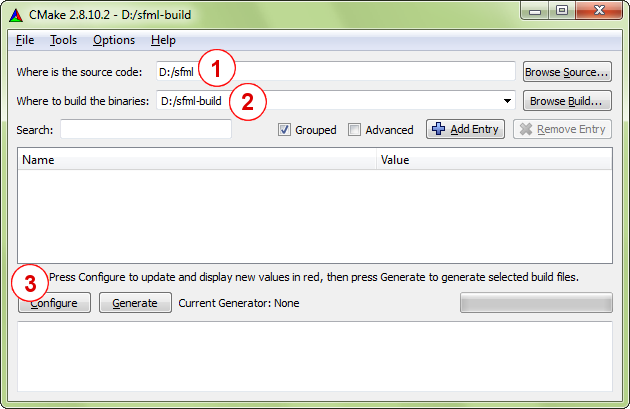
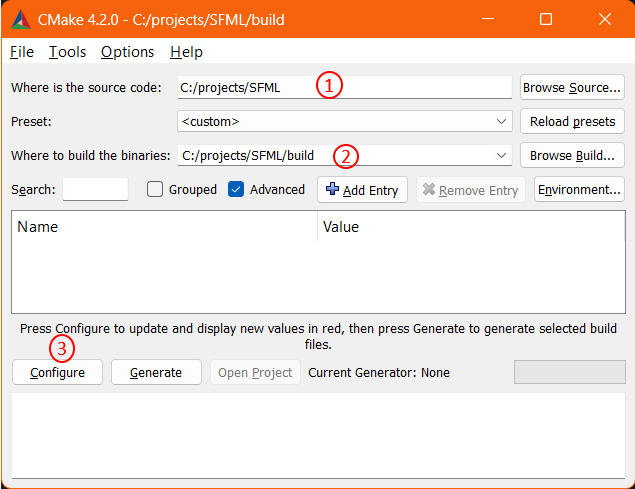
Update build-from-source tutorial. Correct options, dependencies, and targets

Changed region(s): [[0.0, 0.0, 1.0, 1.0]]

diff --git a/pages/tutorials/3.0/getting-started/build-from-source.md b/pages/tutorials/3.0/getting-started/build-from-source.md
@@ -19,25 +19,26 @@ As you might expect, this tutorial is divided into two main sections: Generating
 
 ## Installing dependencies
 
-SFML depends on a few other libraries, so before starting to configure you must have their development files installed.
-On Windows and macOS, all the required dependencies are provided alongside SFML so you won't have to download/install anything else.
-Building will work out of the box.
-On Linux however, nothing is provided.
-SFML relies on you to install all of its dependencies on your own.
-Here is a list of what you need to install before building SFML:
+SFML depends on a few other libraries, which will be automatically built as part of the SFML project unless otherwise specified by the `SFML_USE_SYSTEM_DEPS` option (see below).
+On Linux, however, this option is disabled by default, so either enable it, or ensure the following packages are installed on your system:
 
 - freetype
+- harfbuzz
+- flac
+- ogg
+- vorbis
+- vorbisenc
+- vorbisfile
+- mbedtls
+
+On Linux there are also other system dependencies that must be installed in all cases:
+
 - x11
 - xrandr
 - xcursor
 - xi
 - udev
 - opengl
-- flac
-- ogg
-- vorbis
-- vorbisenc
-- vorbisfile
 - pthread
 
 The exact name of the packages may vary from distribution to distribution.
@@ -58,7 +59,7 @@ Using separate folders will also make it easier to have multiple different build
 Now that you've chosen the build directory, there's one more thing to do before you can run CMake.
 When CMake configures your project, it tests the availability of the compiler (and checks its version as well).
 As a consequence, the compiler executable must be available when CMake is run.
-This is not a problem for Linux and macOS users, since the compilers are installed in a standard path and are always globally available, but on Windows you may have to add the directory of your compiler in the PATH environment variable, so that CMake can find it automatically.
+This is not a problem for most users, since the compilers are installed in a standard path and are always globally available, but in some cases you may have to add the directory of your compiler in the PATH environment variable, so that CMake can find it automatically.
 This is especially important when you have several compilers installed, or multiple versions of the same compiler.
 
 On Windows, if you want to use GCC (MinGW), you can temporarily add the MinGW\bin directory to the PATH and then run CMake from the command shell:
@@ -77,15 +78,16 @@ On Windows, if you want to use GCC (MinGW), you can temporarily add the MinGW\bi
     cmake -G"MinGW Makefiles" -B ./build
     ```
 
-With MSVC, you can either run CMake from the "Visual Studio command prompt" available from the start menu, or run the `vcvars32.bat` / `vcvars64.bat` batch file of your Visual Studio installation in the console you have open.
+With NMake, you can either run CMake from the "Developer command prompt" available from the start menu, or run the `vcvars32.bat` / `vcvars64.bat` batch file of your Visual Studio installation in the console you have open.
 The batch file will set all the necessary environment variables in that console window for you.
 
 === "CMD"
 
     ```batch
-    <your_visual_studio_folder>\VC\bin\vcvars32.bat
+    <your_visual_studio_folder>\VC\Auxiliary\Build\vcvars32.bat
     cmake -G"NMake Makefiles" -B ./build
     ```
+
 
 Now you are ready to run CMake.
 In fact there are two different ways to run it:
@@ -120,14 +122,7 @@ In other words, this is where you select your compiler/IDE.
 For example, if you are using Visual Studio 2022, you should select "Visual Studio 17 2022" from the drop-down list.
 To generate Makefiles usable with NMake on the Visual Studio command line, select "NMake Makefiles".
 To create Makefiles usable with MinGW (GCC), select "MinGW Makefiles".
-It is generally easier to build SFML using Makefiles rather than IDE projects: you can build the entire library with a single command, or even batch together multiple builds in a single script.
-Since you only plan to build SFML and not edit its source files, IDE projects aren't as useful.
-
-The installation process (described further down) may not work with the "Xcode" generator.
-It is therefore highly recommended to use the *Makefile* generator when building on macOS.
-
-Always keep the "Use default native compilers" option enabled.
-The other three fields can be left alone.
+Some generators will have further options which you don't need to modify for this tutorial.
 
 After selecting the generator, CMake will run a series of tests to gather information about your toolchain environment: compiler path, standard headers, SFML dependencies, etc.
 If the tests succeed, it should finish with the "Configuring done" message.
@@ -144,22 +139,21 @@ Here are the few options that you may want to have a look at when configuring yo
 
 | Variable                                                       | Meaning                                                                                                                                                                                                                                                                                                                                                                                                                                                                                                                                                                                                                                                                                                              |
 | -------------------------------------------------------------- | -------------------------------------------------------------------------------------------------------------------------------------------------------------------------------------------------------------------------------------------------------------------------------------------------------------------------------------------------------------------------------------------------------------------------------------------------------------------------------------------------------------------------------------------------------------------------------------------------------------------------------------------------------------------------------------------------------------------- |
-| `CMAKE_BUILD_TYPE`                                             | This option selects the build configuration type. Valid values are "Debug" and "Release" (there are other types such as "RelWithDebInfo" or "MinSizeRel", but they are meant for more advanced builds).<br><br>Note that if you generate a workspace for an IDE that supports multiple configurations, such as Visual Studio, this option is ignored since the workspace can contain multiple configurations simultaneously.                                                                                                                                                                                                                                                                                         |
-| `CMAKE_INSTALL_PREFIX`                                         | This is the install path. By default, it is set to the installation path that is most typical on the operating system ("/usr/local" for Linux and macOS, "C:\Program Files" for Windows, etc.). When building frameworks on macOS, you may want to change the value to "/Library/Frameworks".<br><br>Installing SFML after building it is not mandatory since you can use the binaries directly from where they were built. It may be a better solution, however, to install them properly so you can remove all the temporary files produced during the build process.                                                                                                                                              |
-| `BUILD_SHARED_LIBS`                                            | This boolean option controls whether you build SFML as dynamic (shared) libraries, or as static ones.<br>This option should not be enabled simultaneously with `SFML_USE_STATIC_STD_LIBS`, they are mutually exclusive.                                                                                                                                                                                                                                                                                                                                                                                                                                                                                             |
-| `SFML_BUILD_FRAMEWORKS`   (macOS only)                         | This boolean option controls whether you build SFML as [framework bundles](https://developer.apple.com/library/mac/#documentation/MacOSX/Conceptual/BPFrameworks/Frameworks.html "go to Apple documentation about frameworks") or as [dylib binaries](https://developer.apple.com/library/mac/#documentation/DeveloperTools/Conceptual/DynamicLibraries/000-Introduction/Introduction.html "go to Apple documentation about dynamic library"). Building frameworks requires `BUILD_SHARED_LIBS` to be selected.<br>It is recommended to use SFML as frameworks when publishing your applications. Note however, that SFML cannot be built in the debug configuration as frameworks. In that case, use dylibs instead. |
+| [`CMAKE_BUILD_TYPE`](https://cmake.org/cmake/help/latest/variable/CMAKE_BUILD_TYPE.html)                                             | This option selects the build configuration type for single-configuration generators (e.g. makefiles). Must be one of `Debug`, `Release`, `RelWithDebInfo` or `MinSizeRel`. Defaults to `Release`.                                                                                                                                                                                                                                                                                     |
+| [`CMAKE_INSTALL_PREFIX`](https://cmake.org/cmake/help/latest/variable/CMAKE_INSTALL_PREFIX.html)                                         | This is the install path. By default, it is set to the installation path that is most typical on the operating system ("/usr/local" for UNIX platforms, "C:\Program Files" for Windows). When building frameworks on macOS, you may want to change the value to "/Library/Frameworks".<br><br>Installing SFML after building it is not mandatory since you can use the binaries directly from where they were built. It may be a better solution, however, to install them properly so you can remove all the temporary files produced during the build process.                                                                                                                                              |
+| [`BUILD_SHARED_LIBS`](https://cmake.org/cmake/help/latest/variable/BUILD_SHARED_LIBS.html)                                            | This boolean option controls whether you build SFML as dynamic (shared) libraries, or as static ones.<br>This option should not be enabled simultaneously with `SFML_USE_STATIC_STD_LIBS`, they are mutually exclusive. Defaults to `OFF` (Static libraries).                                                                                                                                                                                                                                                                                                                                                                                                                                                                                             |
+| `SFML_BUILD_FRAMEWORKS`   (macOS only)                         | This boolean option controls whether you build SFML as [framework bundles](https://developer.apple.com/library/mac/#documentation/MacOSX/Conceptual/BPFrameworks/Frameworks.html "go to Apple documentation about frameworks") or as [dylib binaries](https://developer.apple.com/library/mac/#documentation/DeveloperTools/Conceptual/DynamicLibraries/000-Introduction/Introduction.html "go to Apple documentation about dynamic library"). Building frameworks requires `BUILD_SHARED_LIBS` to be enabled. Defaults to `OFF`.
 | `SFML_BUILD_EXAMPLES`                                          | This boolean option controls whether the SFML examples are built alongside the library or not.                                                                                                                                                                                                                                                                                                                                                                                                                                                                                                                                                                                                                       |
 | `SFML_BUILD_TEST_SUITE`                                        | This boolean option controls whether the SFML unit tests are built alongside the library or not.                                                                                                                                                                                                                                                                                                                                                                                                                                                                                                                                                                                                                       |
-| `SFML_BUILD_DOC`                                               | This boolean option controls whether you generate the SFML documentation or not. Note that the [Doxygen](https://www.doxygen.org/ "go to doxygen website") tool must be installed and accessible, otherwise enabling this option will produce an error.<br>On macOS you can either install the classic-Unix doxygen binary into /usr/bin or any similar directory, or install Doxygen.app into any "Applications" folder, e.g. ~/Applications.                                                                                                                                                                                                                                                                       |
+| `SFML_BUILD_DOC`                                               | This boolean option controls whether you generate the SFML documentation or not. Note that the [Doxygen](https://www.doxygen.org/ "go to doxygen website") tool must be installed and accessible, otherwise enabling this option will produce an error.                                                                                                                                                                                                                                                |
 | `SFML_BUILD_AUDIO`                                             | This boolean option controls whether the SFML audio module is built or not.                                                                                                                                                                                                                                                                                                                                                                                                                                                                                                                                                                                                                                          |
 | `SFML_BUILD_GRAPHICS`                                          | This boolean option controls whether the SFML graphics module is built or not.                                                                                                                                                                                                                                                                                                                                                                                                                                                                                                                                                                                                                                       |
 | `SFML_BUILD_WINDOW`                                            | This boolean option controls whether the SFML window module is built or not.                                                                                                                                                                                                                                                                                                                                                                                                                                                                                                                                                                                                                                         |
 | `SFML_BUILD_NETWORK`                                           | This boolean option controls whether the SFML network module is built or not.                                                                                                                                                                                                                                                                                                                                                                                                                                                                                                                                                                                                                                        |
-| `SFML_USE_SYSTEM_DEPS`                                         | This boolean option controls whether the dependencies from the extlibs directory are used or whether the system dependencies are used.<br>The stb_image header in the extlibs directory is used regardless of this option.                                                                                                                                                                                                                                                                                                                                                                                                                                                                                      |
+| `SFML_USE_SYSTEM_DEPS`                                         | This boolean option controls how SFML uses its dependencies. If enabled, it will use [`find_package`](https://cmake.org/cmake/help/latest/command/find_package.html) to find the libraries on your system, otherwise it will use [`FetchContent`](https://cmake.org/cmake/help/latest/module/FetchContent.html) to automatically build them as part of the SFML project. Using system dependencies can greatly speed up the whole build process as you are not configuring and building each dependency.                                                                                                                                                                                                                                                                                                                                                                                                                                                                                      |
 | `SFML_USE_STATIC_STD_LIBS`   (Windows only)                    | This boolean option selects the type of the C/C++ runtime library which is linked to SFML.<br>`ON` statically links the standard libraries, which means that SFML is self-contained and doesn't depend on the compiler's specific DLLs.<br>`OFF` (the default) dynamically links the standard libraries, which means that SFML depends on the compiler's DLLs (msvcrxx.dll/msvcpxx.dll for Visual C++, libgcc_s_xxx-1.dll/libstdc++-6.dll for GCC). Be careful when setting this. The setting must match your own project's setting or else your application may fail to run.<br>This option should not be enabled simultaneously with BUILD_SHARED_LIBS, they are mutually exclusive.                            |
 | `SFML_GENERATE_PDB`   (Visual Studio only)                     | The boolean option controls whether Visual Studio should or shouldn't generate PDB files, which are separate files containing the debug symbols needed to debug SFML.                                                                                                                                                                                                                                                                                                                                                                                                                                                                                                                                                |
-| `SFML_INSTALL_XCODE_TEMPLATES`   (macOS only)                  | This boolean option controls whether CMake will install the Xcode templates on your system or not. Please make sure that /Library/Developer/Xcode/Templates/SFML exists and is writable. More information about these templates is given in the "Getting started" tutorial for macOS.                                                                                                                                                                                                                                                                                                                                                                                                                                |
-| `SFML_INSTALL_PKGCONFIG_FILES`   (Linux shared libraries only) | This boolean option controls whether CMake will install the pkg-config files on your system or not. pkg-config is a tool that provides a unified interface for querying installed libraries.                                                                                                                                                                                                                                                                                                                                                                                                                                                                                                                         |
+| `SFML_INSTALL_PKGCONFIG_FILES` | This boolean option controls whether CMake will install the pkg-config files on your system or not. pkg-config is a tool that provides a unified interface for querying installed libraries.                                                                                                                                                                                                                                                                                                                                                                                                                                                                                                                         |
 
 After everything is configured, click the "Configure" button once again.
 There should no longer be any options highlighted in red, and the "Generate" button should be enabled.
@@ -177,18 +171,11 @@ Let's begin this section with some good news: you won't have to go through the c
 CMake is smart: It adds a custom step to the generated makefiles/projects, that automatically regenerates the build files whenever something changes.
 
 You're now ready to build SFML.
-Of course, how to do it depends on what makefiles/projects you've generated.
-If you created a project/solution/workspace, open it with your IDE and build SFML like you would any other project.
-We won't go into the details here, there are simply too many different IDEs and we have to assume that you know how to use yours well enough to perform this simple task on your own.
+If you're using the command line, you can build with the same command for any generator/platform/IDE: `cmake --build <path>` where `<path>` is the path to the build directory you used when configuring.
+Otherwise, if you want to use the generated project/solution/workspace it will be found in the build folder you configured, so open it with your IDE and build SFML like you would any other project (cmake-gui offers an "Open Project" button to assist with this).
+We won't go into further details here, as there are simply too many different generators, compilers and IDEs so we have to assume that you know how to use yours well enough to perform this simple task on your own.
 
-If you generated a Makefile, open a command shell and execute the make command corresponding to your environment.
-For example, run "nmake" if you generated an NMake (Visual Studio) Makefile, "mingw32-make" if you generated a MinGW (GCC) Makefile, or simply "make" if you generated a Linux Makefile.
-
-Note: On Windows, the make program (nmake or mingw32-make) may not be accessible.
-If this is the case, don't forget to add its location to your PATH environment variable.
-See the explanations at the beginning of the "Configuring your SFML build" section for more details.
-
-By default, building the project will build everything (all the SFML libraries, as well as all the examples if you enabled the `SFML_BUILD_EXAMPLES` option).
+By default, building the project will build everything (all the SFML libraries, dependencies, examples, tests, etc. depending on the options selected above).
 If you just want to build a specific SFML library or example, you can select a different target.
 You can also choose to clean or install the built files, with the corresponding targets.
  
@@ -197,18 +184,14 @@ Here are all the targets that are available, depending on the configure options 
 | Target                                                                                                 | Meaning                                                                                                                                                                                                                                                                                                                                                                                                    |
 | ------------------------------------------------------------------------------------------------------ | ---------------------------------------------------------------------------------------------------------------------------------------------------------------------------------------------------------------------------------------------------------------------------------------------------------------------------------------------------------------------------------------------------------- |
 | `all`                                                                                                  | This is the default target, it is used if no target is explicitly specified. It builds all the targets that produce a binary (SFML libraries and examples).                                                                                                                                                                                                                                                |
-| `sfml-system   sfml-window   sfml-network   sfml-graphics   sfml-audio   sfml-main`                    | Builds the corresponding SFML library. The "sfml-main" target is available only when building for Windows.                                                                                                                                                                                                                                                                                                 |
-| `cocoa   event_handling   ftp   island   joystick   opengl   raw_input   shader   sockets   sound   sound-capture   sound_effects   stencil   tennis   voip   vulkan   window   win32   X11` | Builds the corresponding SFML example. These targets are available only if the `SFML_BUILD_EXAMPLES` option is enabled. Note that some of the targets are available only on certain operating systems ("cocoa" is available on macOS, "win32" on Windows, "X11" on Linux, etc.).                                                                                                                           |
-| `test`                                                                                                 | Runs all unit tests if `SFML_BULID_TEST_SUITE` is enabled. |
+| `sfml-system   sfml-window   sfml-network   sfml-graphics   sfml-audio   sfml-main`                    | Builds the corresponding SFML library. The "sfml-main" target is available only when building for Windows and mobile platforms.                                                                                                                                                                                                                                                                                                 |
+| `cocoa   event_handling   ftp   http   island   joystick   keyboard   opengl   raw_input   shader   sockets   sound   sound-capture   sound-device   sound-effects   stencil   tennis   text   voip   vulkan   window   win32   X11` | Builds the corresponding SFML example. These targets are available only if the `SFML_BUILD_EXAMPLES` option is enabled. Note that some of the targets are available only on certain operating systems ("cocoa" is available on macOS, "win32" on Windows, "X11" on Linux, etc.).                                                                                                                           |
+| `runtests`                                                                                                 | Builds and runs all unit tests if `SFML_BUILD_TEST_SUITE` is enabled. Not to be confused with CMake's `test`/`RUN_TESTS` targets which run the tests without building them |
 | `doc`                                                                                                  | Generates the API documentation. This target is available only if `SFML_BUILD_DOC` is enabled.                                                                                                                                                                                                                                                                                                             |
 | `clean`                                                                                                | Removes all the object files, libraries and example binaries produced by a previous build. You generally don't need to invoke this target, the exception being when you want to completely rebuild SFML (some source updates may be incompatible with existing object files and cleaning everything is the only solution).                                                                                 |
 | `install`                                                                                              | Installs SFML to the path given by `CMAKE_INSTALL_PREFIX` and `CMAKE_INSTALL_FRAMEWORK_PREFIX`. It copies over the SFML libraries and headers, as well as examples and documentation if `SFML_BUILD_EXAMPLES` and `SFML_BUILD_DOC` are enabled. After installing, you get a clean distribution of SFML, just as if you had downloaded the SDK or installed it from your distribution's package repository. |
 
-If you use an IDE, a target is simply a project.
-To build a target, select the corresponding project and compile it (even "clean" and "install" must be built to be executed -- don't be confused by the fact that no source code is actually compiled).
- 
-If you use a Makefile or Ninja, pass the name of the target to the make command to build the target.
-Examples: "`nmake doc`", "`mingw32-make install`", "`make sfml-network`".
+If you are using the command line you can add the `--target <target>` argument to the build command mentioned above. Otherwise, the steps to build a specific target will depend on which generator you used, which we expect you to be familiar with
 
 At this point you should have successfully built SFML.
 Congratulations!
